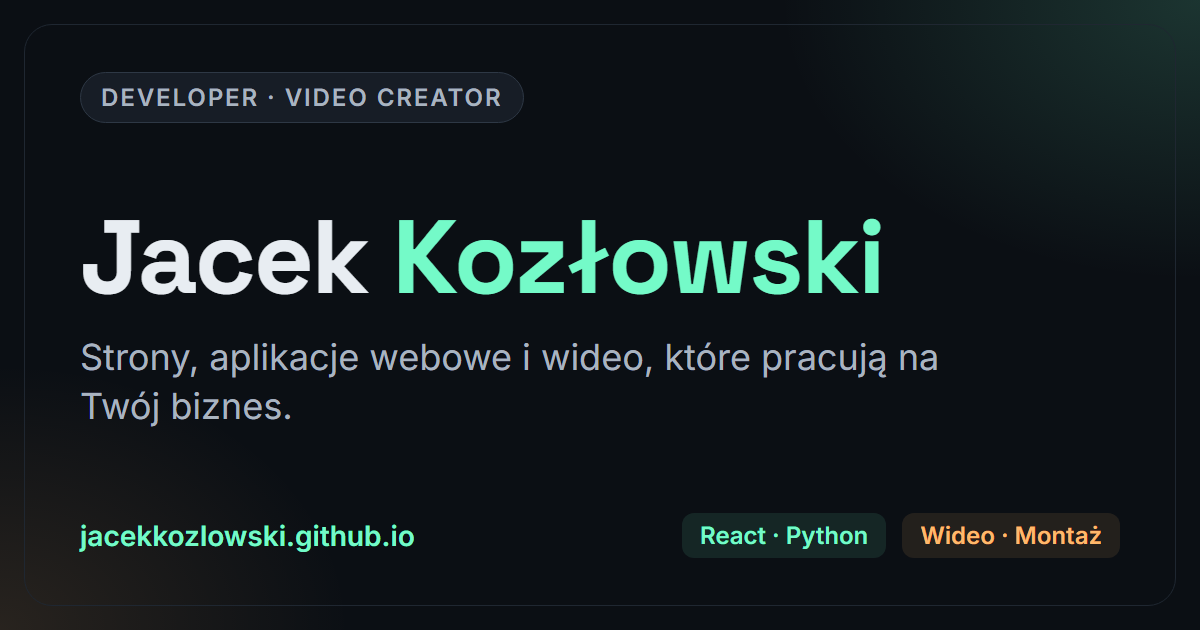
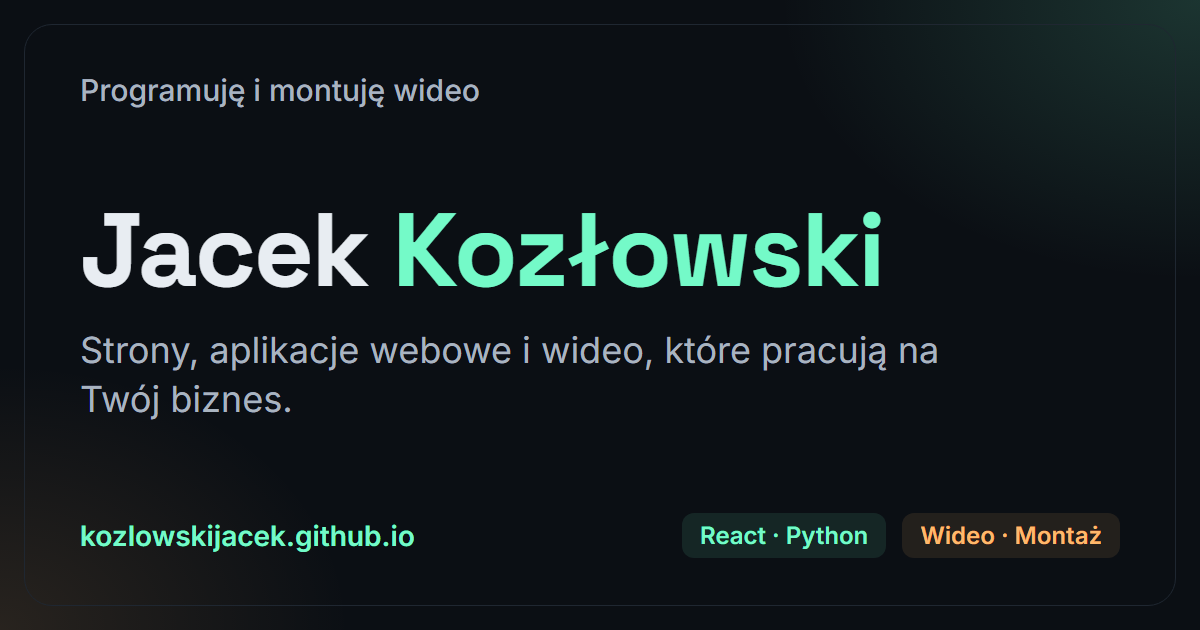
fix: use the real site address kozlowskijacek.github.io
The site is served from kozlowskijacek.github.io; jacekkozlowski.github.io
does not exist, so canonical, og:url, hreflang, sitemap, robots.txt, the
printed CV link and the Portfolio-web project links pointed nowhere.
Re-render the OG image with the correct address and a plain intro line
instead of the pill badge.

diff --git a/scripts/og/og-template.html b/scripts/og/og-template.html
@@ -76,15 +76,9 @@
       }
       .badge {
         align-self: flex-start;
-        padding: 10px 20px;
-        border: 1px solid #2e3845;
-        border-radius: 999px;
-        background: #171d26;
         color: #a9b4c0;
-        font-size: 24px;
-        font-weight: 600;
-        letter-spacing: 0.08em;
-        text-transform: uppercase;
+        font-size: 30px;
+        font-weight: 500;
       }
       h1 {
         margin: 0;
@@ -135,13 +129,13 @@
   </head>
   <body>
     <main class="card">
-      <div class="badge">Developer · Video Creator</div>
+      <div class="badge">Programuję i montuję wideo</div>
       <div>
         <h1>Jacek <span>Kozłowski</span></h1>
         <p>Strony, aplikacje webowe i wideo, które pracują na Twój biznes.</p>
       </div>
       <div class="footer">
-        <span class="url">jacekkozlowski.github.io</span>
+        <span class="url">kozlowskijacek.github.io</span>
         <span class="pillars">
           <span class="pillar web">React · Python</span>
           <span class="pillar video">Wideo · Montaż</span>

diff --git a/src/data/projects.ts b/src/data/projects.ts
@@ -174,8 +174,8 @@ const projects: Project[] = [
     roleKey: "portfolio:roles.design_dev",
     year: 2025,
     links: {
-      github: "https://github.com/KozlowskiJacek/jacekkozlowski.github.io",
-      live: "https://jacekkozlowski.github.io",
+      github: "https://github.com/KozlowskiJacek/kozlowskijacek.github.io",
+      live: "https://kozlowskijacek.github.io",
     },
   },
   {

diff --git a/src/data/career.ts b/src/data/career.ts
@@ -170,7 +170,7 @@ export const career: CareerProfile = {
   links: {
     linkedin: "https://www.linkedin.com/in/jacek-kozłowski-a43b21265/",
     github: "https://github.com/KozlowskiJacek",
-    website: "https://jacekkozlowski.github.io",
+    website: "https://kozlowskijacek.github.io",
   },
 
   experience: [

diff --git a/src/data/site.ts b/src/data/site.ts
@@ -1,7 +1,7 @@
 import { paths } from "./navigation";
 
 /** Adres produkcyjny strony (bez końcowego ukośnika) — canonical, og:url, sitemap. */
-export const siteUrl = "https://jacekkozlowski.github.io";
+export const siteUrl = "https://kozlowskijacek.github.io";
 
 export const siteName = "Jacek Kozłowski";
 

diff --git a/README.md b/README.md
@@ -1,6 +1,6 @@
 # Portfolio-web
 
-Osobista strona-wizytówka Jacka Kozłowskiego: **https://jacekkozlowski.github.io**
+Osobista strona-wizytówka Jacka Kozłowskiego: **https://kozlowskijacek.github.io**
 
 Strona ma dwa cele:
 
